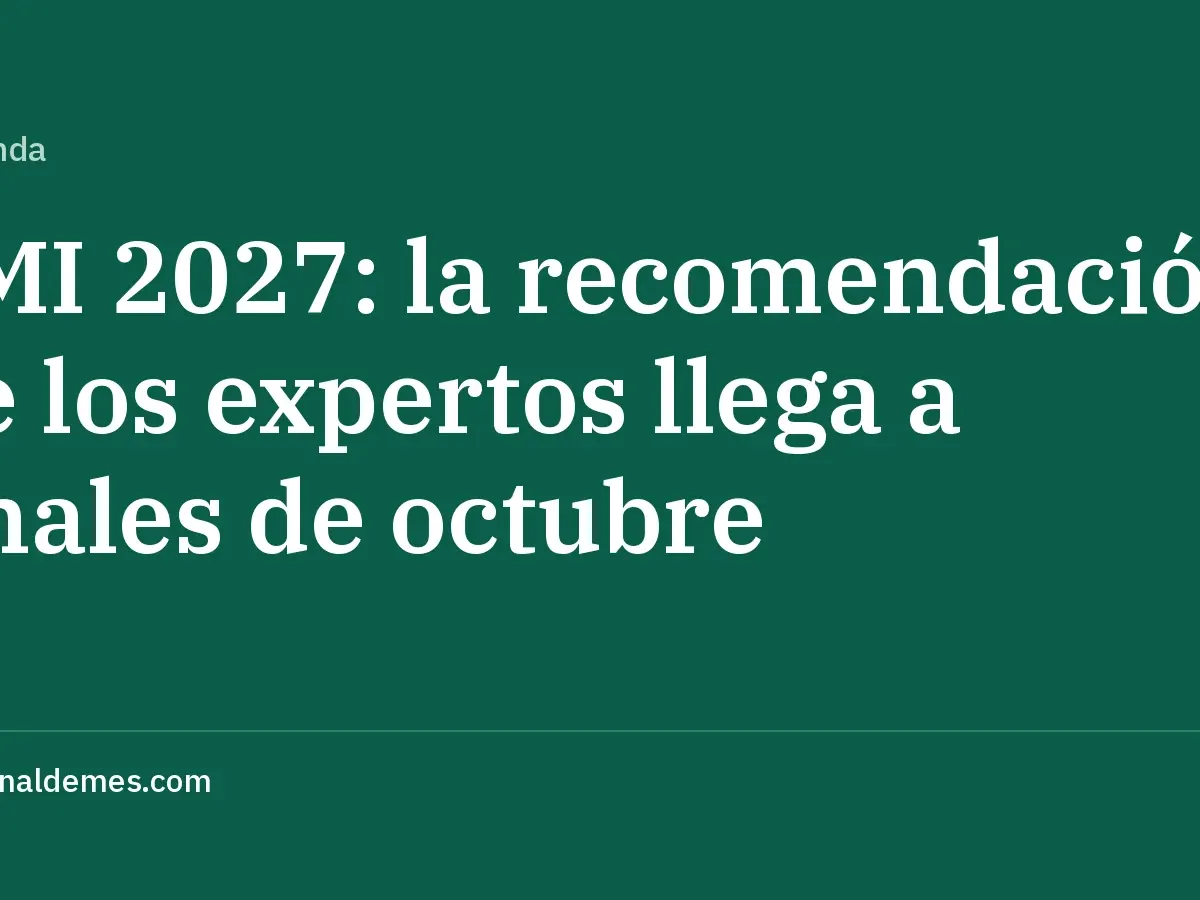
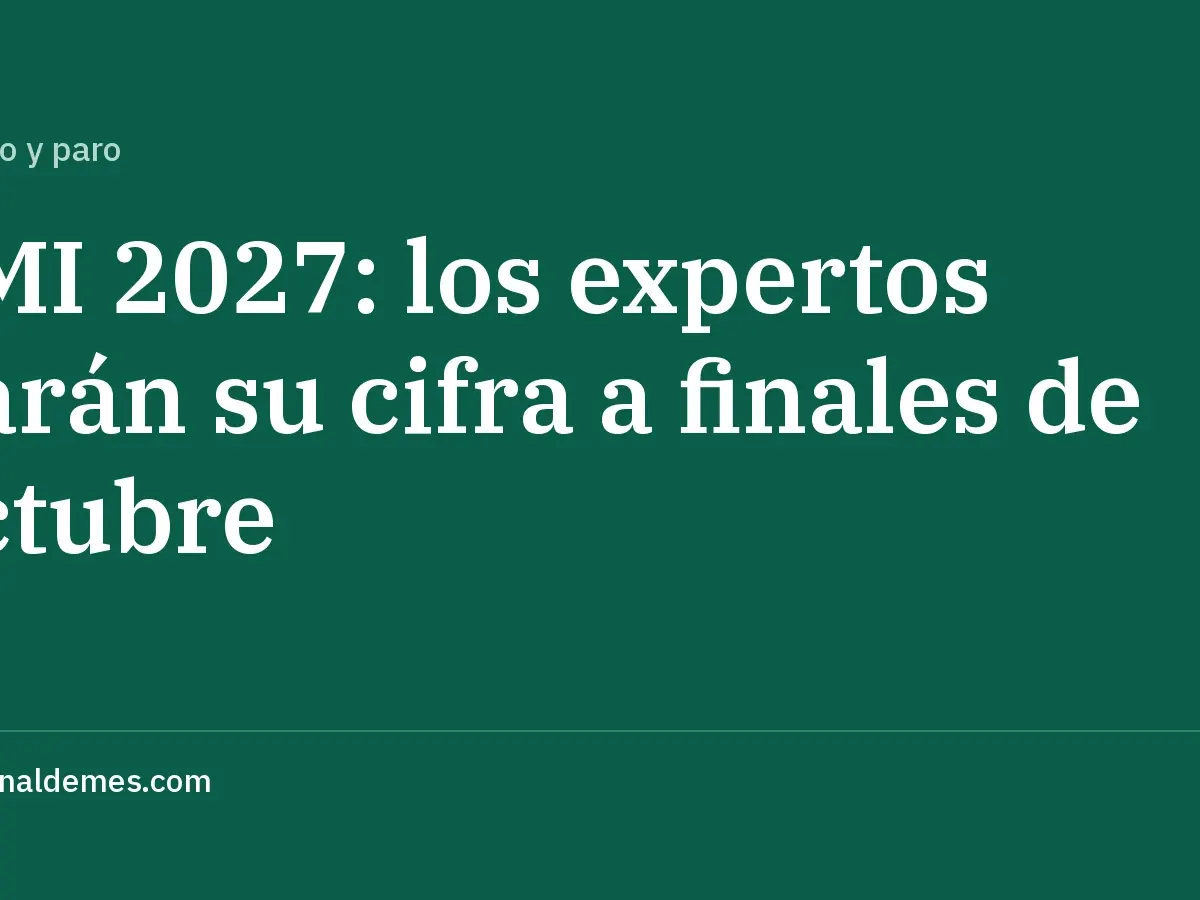
Mover SMI 2027 y cuota de autónomos a Empleo y paro
Claude-Session: https://claude.ai/code/session_01VUB8p8qVDcUjpenDjXZMDe

Changed region(s): [[0.0, 0.2489, 1.0, 0.5289], [0.0, 0.5289, 0.6475, 0.6222], [0.0, 0.1556, 0.0925, 0.1867]]

diff --git a/src/content/posts/ata-pide-cuota-cero-dos-anos-a-nuevos-autonomos-e-iva-opcional-bajo-85-000.md b/src/content/posts/ata-pide-cuota-cero-dos-anos-a-nuevos-autonomos-e-iva-opcional-bajo-85-000.md
@@ -2,7 +2,7 @@
 title: "ATA pide cuota cero dos años a nuevos autónomos e IVA opcional bajo 85.000 €"
 description: "La patronal ATA propone a los partidos cuota cero los dos primeros años para nuevos autónomos e IVA opcional bajo 85.000 euros. Son propuestas, no ley."
 date: 2026-10-13T19:53:47+00:00
-category: hacienda
+category: paro
 tags: [autonomos, cuota-cero, iva, ata, seguridad-social]
 pendiente: true
 image: /img/articulos/ata-pide-cuota-cero-dos-anos-a-nuevos-autonomos-e-iva-opcional-bajo-85-000.webp

diff --git a/src/content/posts/smi-2027-los-expertos-daran-su-cifra-a-finales-de-octubre.md b/src/content/posts/smi-2027-los-expertos-daran-su-cifra-a-finales-de-octubre.md
@@ -2,7 +2,7 @@
 title: "SMI 2027: los expertos darán su cifra a finales de octubre"
 description: "Trabajo ha convocado a los expertos del salario mínimo: deben entregar su recomendación como tarde a finales de octubre. Hoy está en 1.221 € en 14 pagas."
 date: 2026-10-15T15:38:43+00:00
-category: hacienda
+category: paro
 tags: [smi, salario-minimo, 2027, yolanda-diaz, nomina]
 pendiente: true
 image: /img/articulos/smi-2027-los-expertos-daran-su-cifra-a-finales-de-octubre.webp
